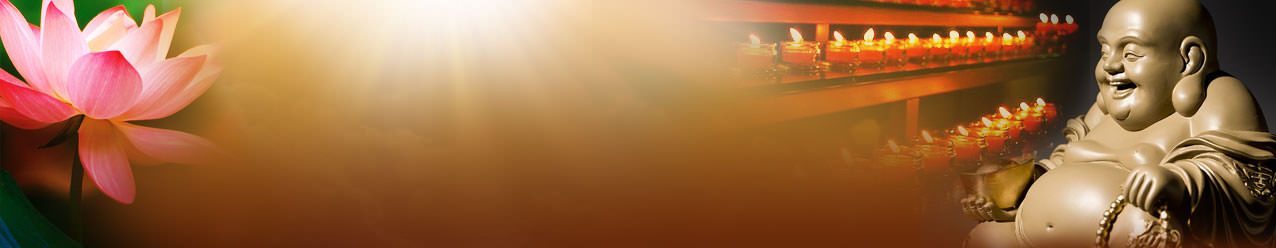
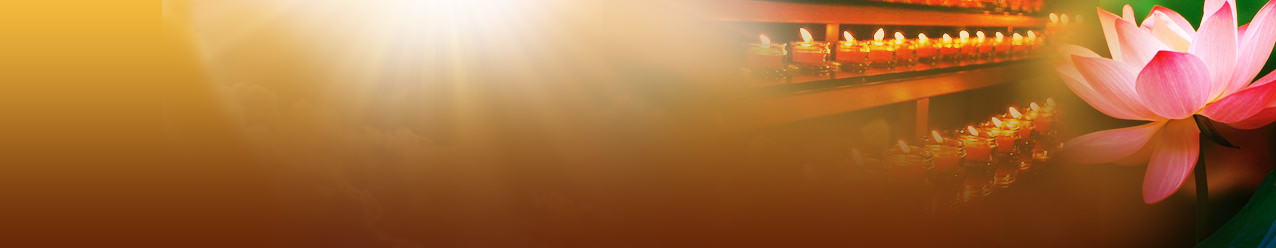
網站Banner修改 #20140731

diff --git a/css/xue-register_201406.css b/css/xue-register_201406.css
@@ -202,14 +202,14 @@ header{ display:block; width:100%}
    position:relative; 
    width:1276px; 
    height:248px;
-   background:url(../images/bg_banner-01.jpg) no-repeat} 
+   background:url(../images/bg_banner.jpg) no-repeat} 
 .top_banner h1 a{
 	display:block;
 	position:absolute;
-	top:68px;
-	left:108px;
-	width:428px;
-	height:170px;
+	top:30px;
+	left:12px;
+	width:599px;
+	height:204px;
 	background:url(../images/bg_h1.png) no-repeat;
 	text-indent:-9999px}
 	

diff --git a/css/xue-main_201406.css b/css/xue-main_201406.css
@@ -143,10 +143,10 @@ header{ display:block; width:100%}
 .top_banner h1 a{
 	display:block;
 	position:absolute;
-	top:68px;
-	left:108px;
-	width:428px;
-	height:170px;
+	top:30px;
+	left:12px;
+	width:599px;
+	height:204px;
 	background:url(../images/bg_h1.png) no-repeat;
 	text-indent:-9999px}
 	
